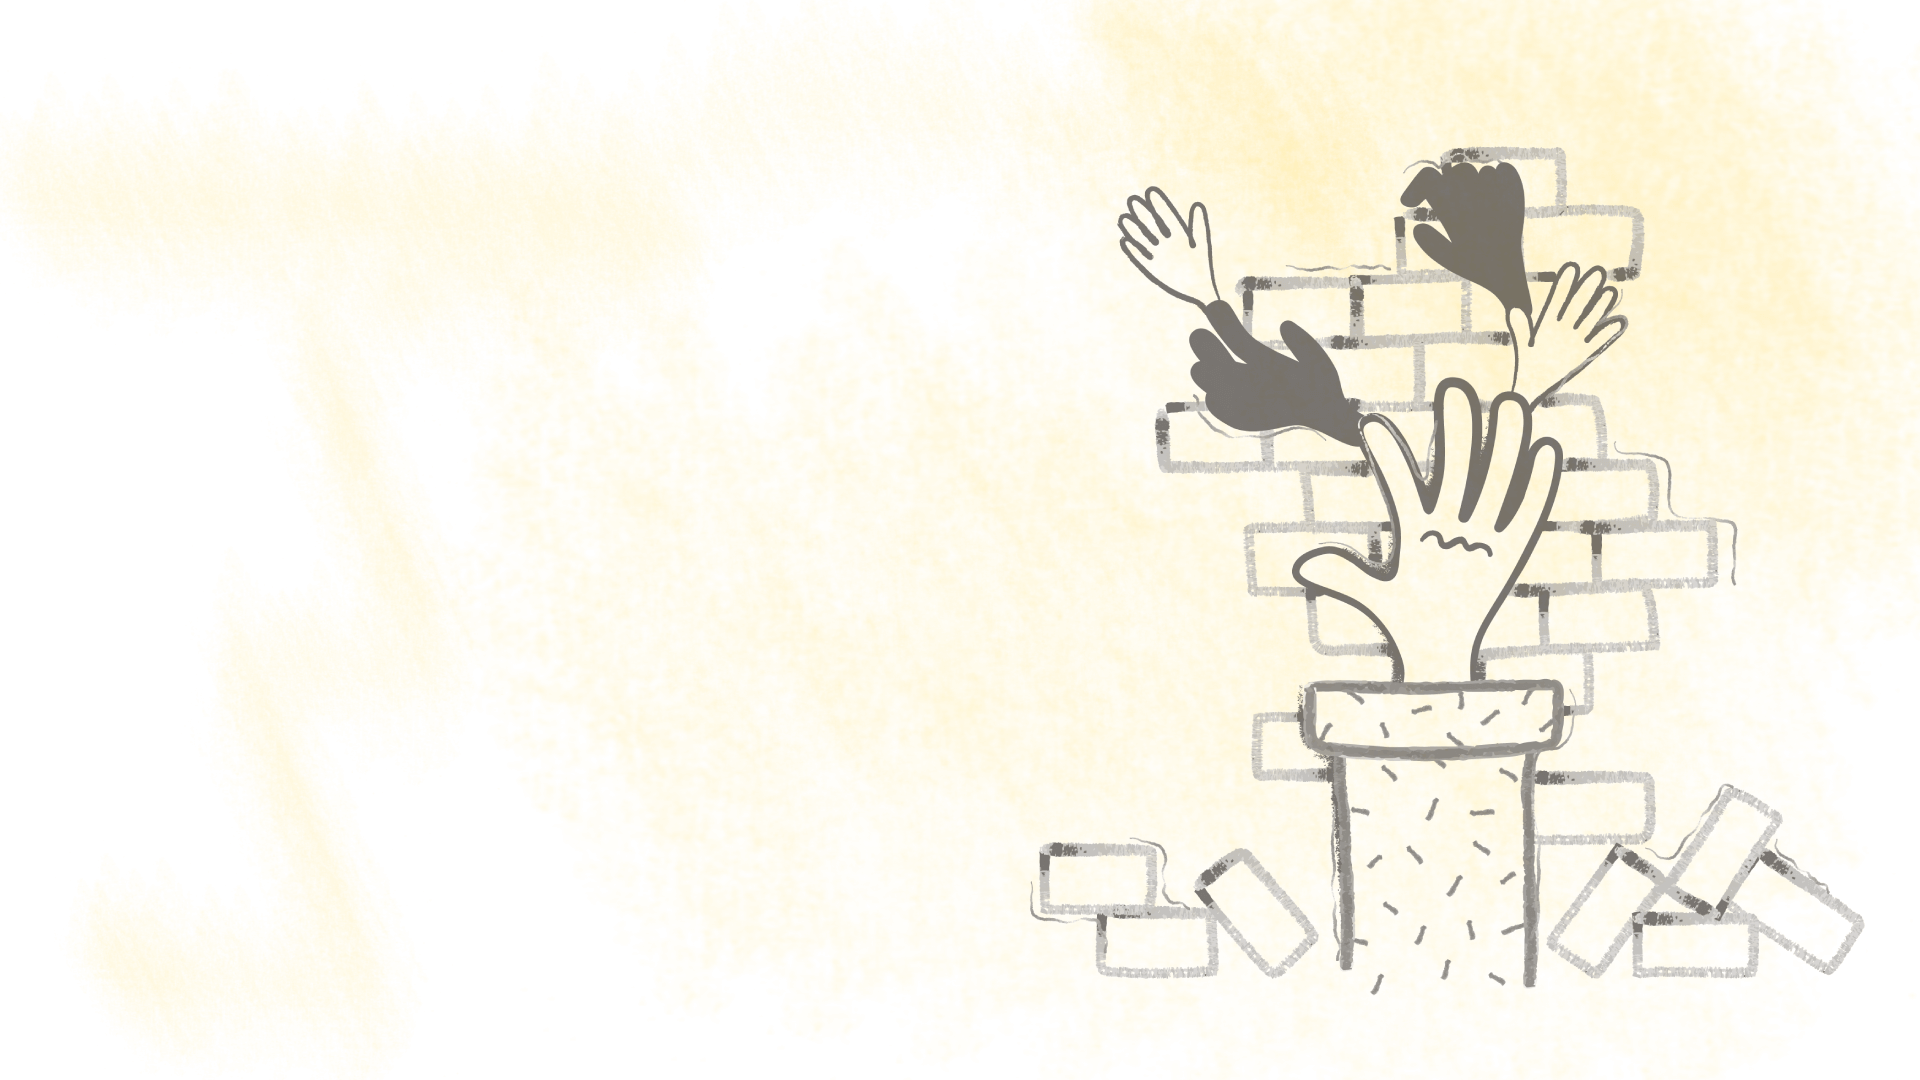
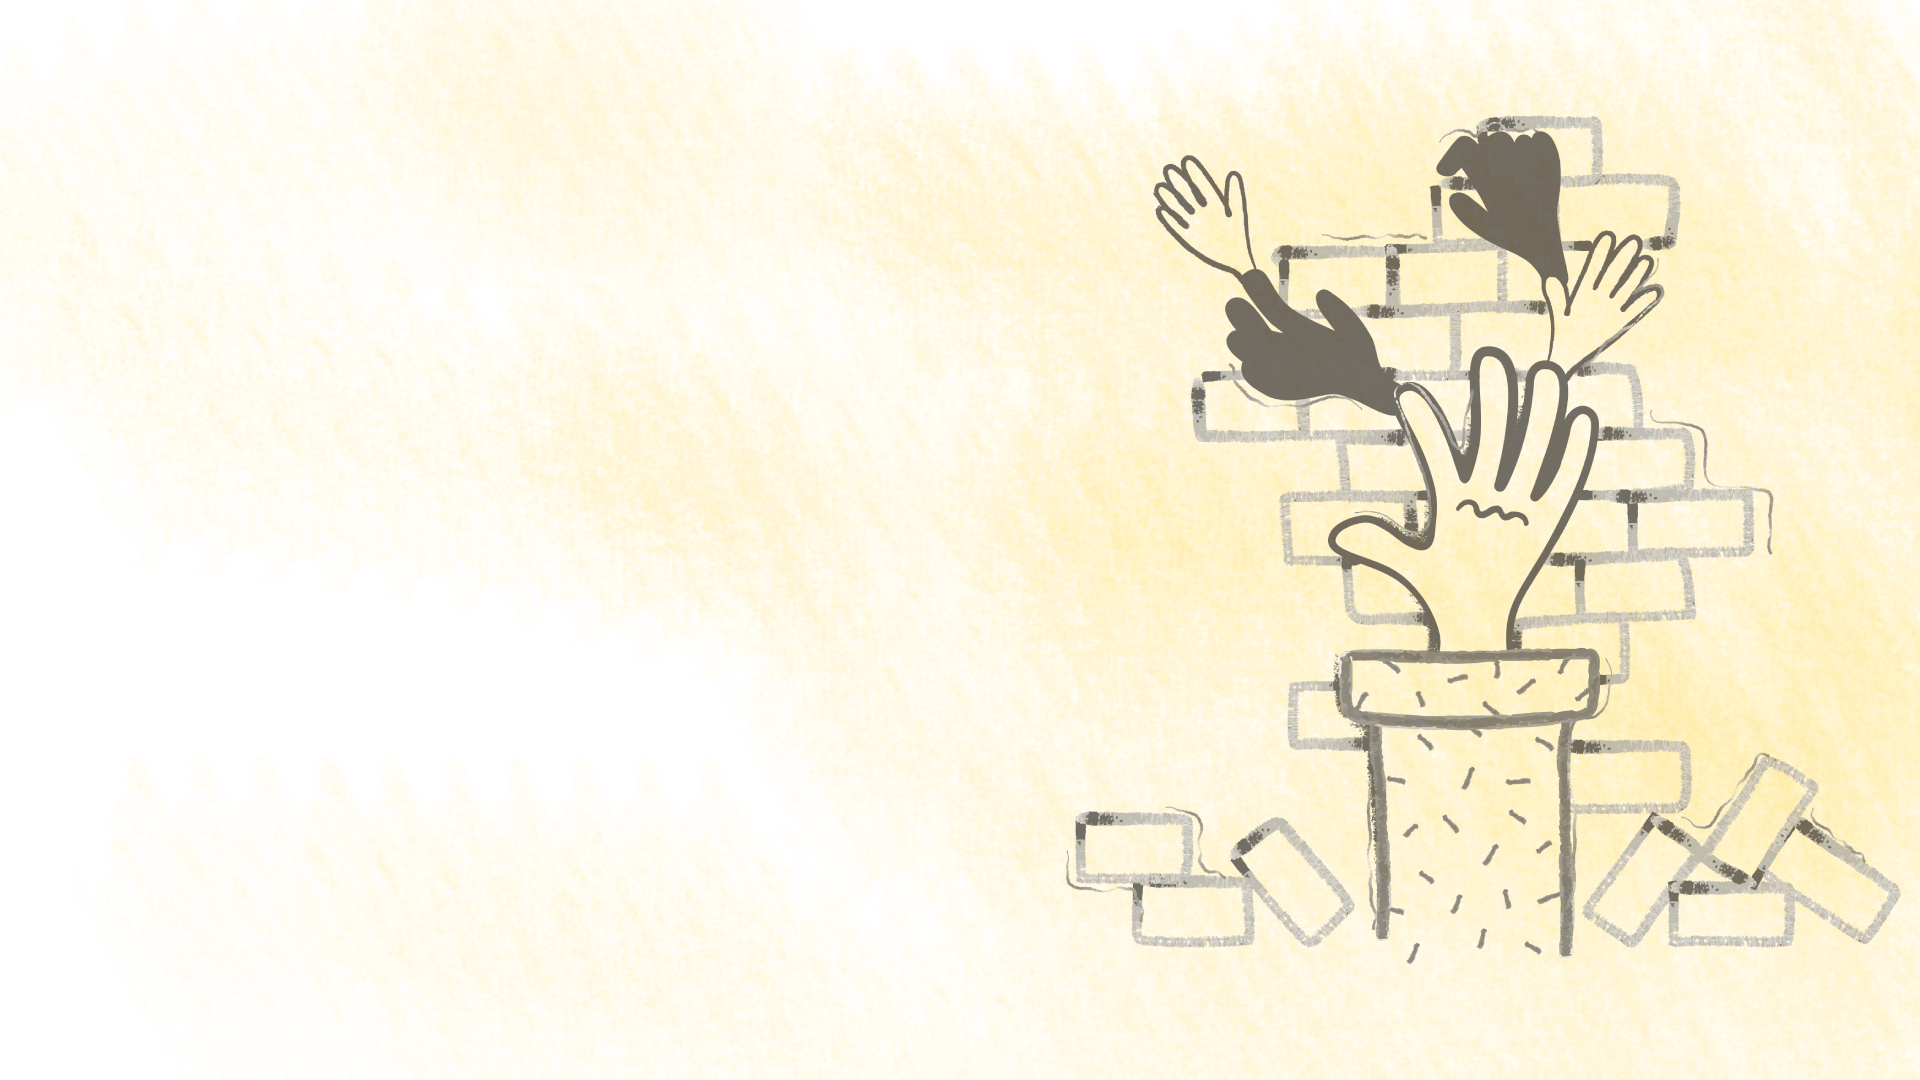
Redesign hero and add background pattern main menu hover efffect

diff --git a/css/style.css b/css/style.css
@@ -5,7 +5,7 @@
 /**
 	Dbug Tech: Official Website
 	Copyright 2019
-
+ <a href="https://pngtree.com/free-backgrounds">free background photos from pngtree.com</a>
 
 /*------------------------ 1 Body and Core Css ------------------------*/
 
@@ -276,6 +276,7 @@ header {
   position: relative;
   z-index: 1;
   background: #fff;
+  background-image: url(../images/body-bg.png);
   overflow: hidden;
   box-shadow: 0px 0px 32px 0px rgba(0, 0, 0, 0.1);
   padding-bottom: 90px;
@@ -320,11 +321,17 @@ header {
   font-size: 28px;
   color: #222;
   font-weight: 500;
+  text-shadow: 1px 1px 1px rgba(50, 50, 50, 0.1),
+    0px -5px 35px rgba(255, 255, 255, 0.3);
 }
 
 .home .home-content p span {
   color: #f6c90e;
   font-weight: 900;
+}
+.home .home-content .hero-title span.thin {
+  color: #333;
+  font-weight: 400;
 }
 
 .home .home-content .social {
@@ -821,8 +828,26 @@ header.white .nav-icon span {
   font-weight: 900;
   text-decoration: none;
   transform: translateY(47px);
+  animation: fadeInRight 0.5s ease forwards;
+  animation-delay: 0.35s;
   display: block;
   transition: all ease 0.4s 0s;
+}
+.full-menu .full-inner nav ul li a:active:after,
+.full-menu .full-inner nav ul li a:focus:after,
+.full-menu .full-inner nav ul li a:hover:after {
+  width: 70%;
+}
+.full-menu .full-inner nav ul li a:after {
+  content: "";
+  position: absolute;
+  bottom: 0;
+  left: 0;
+  width: 0;
+  transform: translateX(-50%);
+  height: 3px;
+  background: #f6c90e;
+  transition: all 0.35s ease;
 }
 
 .full-menu .full-inner .full-contact {
@@ -1526,7 +1551,7 @@ textarea.form-message {
     padding: 22px;
   }
   .hero {
-    background: url(../images/hero.png) no-repeat center left;
+    background: url(../images/new-hero.png) no-repeat center left;
   }
 
   .home .home-content .hero-title {
@@ -1674,7 +1699,7 @@ textarea.form-message {
     padding: 18px;
   }
   .hero {
-    background: url(../images/hero.png) no-repeat center left;
+    background: url(../images/new-hero.png) no-repeat center left;
   }
   .home .home-content .hero-title {
     font-size: 70px;
@@ -1798,7 +1823,7 @@ textarea.form-message {
     padding: 16px;
   }
   .hero {
-    background: url(../images/hero.png) no-repeat center left;
+    background: url(../images/new-hero.png) no-repeat center left;
   }
   .portfolio .portfolio-filter {
     margin-top: 0;

diff --git a/css/colors/yellow.css b/css/colors/yellow.css
@@ -2,40 +2,40 @@
 /* Css Styles                        */
 /*---------------------------------- */
 
-
-.home .home-content .hero-title span, .widget-twitter a, footer .social a:hover, .full-menu .full-inner nav ul li a:hover, .full-menu .full-inner .full-contact ul li.title, .full-menu .full-inner .full-contact ul li .social a:hover, .home .home-content .social a:hover i, .titlebar .page-title span, .news-box small, .news-list:hover .news-box .title, .news-article .category, .article-comments .comment-content .reply, .widgets-title, .widget-latest-news ul li a:hover p, .widget-categories ul li a:hover{
-    color: #F6C90E;
+.home .home-content .hero-title span.yellow,
+.widget-twitter a,
+footer .social a:hover,
+.full-menu .full-inner nav ul li a:hover,
+.full-menu .full-inner .full-contact ul li.title,
+.full-menu .full-inner .full-contact ul li .social a:hover,
+.home .home-content .social a:hover i,
+.titlebar .page-title span,
+.news-box small,
+.news-list:hover .news-box .title,
+.news-article .category,
+.article-comments .comment-content .reply,
+.widgets-title,
+.widget-latest-news ul li a:hover p,
+.widget-categories ul li a:hover {
+  color: #f6c90e;
 }
 
-.full-open .nav-icon:hover span, .owl-carousel.work-areas .area .line, .owl-theme .owl-controls .owl-page.active span, .site-btn2:hover{
-	background: #F6C90E !important;
+.full-open .nav-icon:hover span,
+.owl-carousel.work-areas .area .line,
+.owl-theme .owl-controls .owl-page.active span,
+.site-btn2:hover {
+  background: #f6c90e !important;
 }
 
-.cbp-l-loadMore-link{
-    border: solid 2px #F6C90E !important;
-
+.cbp-l-loadMore-link {
+  border: solid 2px #f6c90e !important;
 }
 
-footer{
-    border-bottom: solid 6px #F6C90E;
+footer {
+  border-bottom: solid 6px #f6c90e;
 }
 
-input.inp:focus, textarea.form-message:focus{
-	border-color: #F6C90E;
+input.inp:focus,
+textarea.form-message:focus {
+  border-color: #f6c90e;
 }
-
-
-
-
-
-
-
-
-
-
-
-
-
-
-
-

diff --git a/index.html b/index.html
@@ -133,22 +133,23 @@
         <div id="" class="hero"></div>
         <div class="home-content">
           <h1 class="hero-title">
-            We Build<span class=""></span>&vert; <br /><span> Special</span>
-            Brands
+            We <span class="yellow">Build</span> <br />
+            Special<span class="yellow">&nbsp;&vert;</span>
+            <span class="thin">Brands</span>
           </h1>
           <p class="top_45">
-            We are a digital product design and development agency in Abuja. We
-            love to<br />
+            We are a digital product design and development agency in <b></b>
+            Abuja. <br />We love to
             refine and craft
             <span
-              class="element"
+              class="element yellow"
               data-text1="digital products"
               data-text2="mobile applications"
               data-text3="web applications"
               data-text4="custom solutions"
               data-loop="true"
               data-backdelay="1500"
-            ></span>
+            ></Special<span>
           </p>
           <div class="social">
             <a class="text">social links</a>
